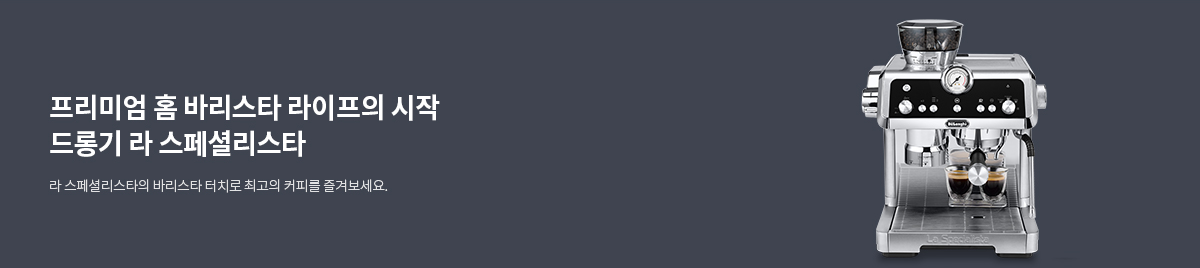
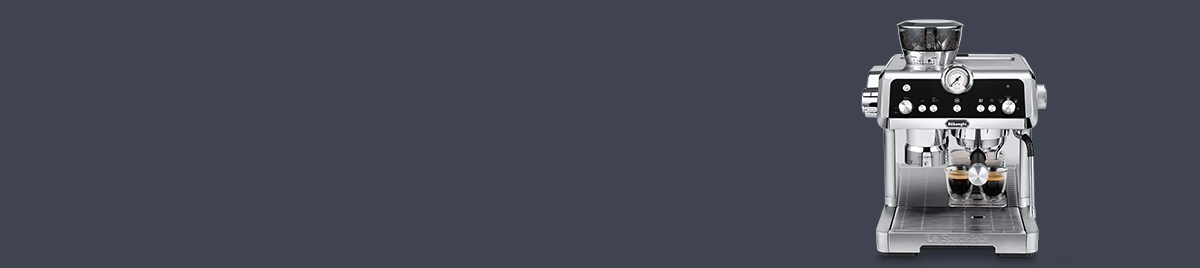
임시 완성

Changed region(s): [[0.0308, 0.3582, 0.37, 0.4478], [0.0308, 0.4776, 0.2775, 0.597], [0.0308, 0.6567, 0.3392, 0.7164]]

diff --git a/sub-page.html b/sub-page.html
@@ -12,7 +12,7 @@
         <link rel="stylesheet" href="./css/Footer.css" />
         <link rel="stylesheet" href="./css/sub.css" />
         <script src="./js/jquery-3.7.1.min.js"></script>
-        <script src="./js/main.js" defer></script>
+        <script src="./js/script.js" defer></script>
         <title>De-Longhi</title>
     </head>
     <body>
@@ -186,6 +186,11 @@
                 class="banner"
             >
                 <img src="./img/banner.png" alt="banner" />
+                <h5>
+                    프리미엄 홈 바리스타 라이프의 시작 <br />드롱기 라 스페셜리스타<span
+                        >라 스페셜리스트의 바리스타 터치로 최고의 커피를 즐겨보세요</span
+                    >
+                </h5>
             </a>
             <div class="inner">
                 <section id="info">
@@ -193,7 +198,7 @@
                     <ul class="item-tab" id="info-tab">
                         <li><a href="#info-tab">상세설명</a></li>
                         <li><a href="#review-tab">상품후기 (1)</a></li>
-                        <li><a href="#buy-tab">구매안내</a></li>
+                        <li><a href="#buy-tab">상품정보</a></li>
                         <li><a href="#faq-tab">상품문의 (0)</a></li>
                     </ul>
                     <figure class="info-img"><img src="./img/temp_14350355152291.jpg" alt="info-img" /></figure>
@@ -202,7 +207,7 @@
                     <ul class="item-tab" id="review-tab">
                         <li><a href="#info-tab">상세설명</a></li>
                         <li><a href="#review-tab">상품후기 (1)</a></li>
-                        <li><a href="#buy-tab">구매안내</a></li>
+                        <li><a href="#buy-tab">상품정보</a></li>
                         <li><a href="#faq-tab">상품문의 (0)</a></li>
                     </ul>
                     <h3 class="review-title">상품리뷰</h3>
@@ -256,11 +261,120 @@
                             <div class="sort-filter">최신순</div>
                             <div class="sort-filter">별점순</div>
                         </div>
-                        <div class="review-filter-search">
+                        <a href="#" class="review-filter-search">
                             <img src="./img/ico-search.png" alt="ico-search" />
+                        </a>
+                    </div>
+                    <div class="review-page-wrap">
+                        <div class="review-page">
+                            <div class="star-img">
+                                <figure><img src="./img/sub-star.png" alt="sub-star" /></figure>
+                                <figure><img src="./img/sub-star.png" alt="sub-star" /></figure>
+                                <figure><img src="./img/sub-star.png" alt="sub-star" /></figure>
+                                <figure><img src="./img/sub-star.png" alt="sub-star" /></figure>
+                                <figure><img src="./img/sub-star.png" alt="sub-star" /></figure>
+                            </div>
+                            <div class="user-name">정**님의 리뷰</div>
+                            <p class="review-content">
+                                사용하기 너무 편합니다. 라떼는 부드럽고 에스프레소는 향기가 풍부하고 중후해서 너무
+                                즐거운 경험이였습니다.
+                            </p>
+                            <div class="interaction-wrap">
+                                <div class="interaction">
+                                    <div class="like-wrap">
+                                        <a href="#" class="like"><img src="./img/btn-like.png" alt="ico-like" /></a>
+                                        0
+                                    </div>
+                                    <div class="bad-wrap">
+                                        <a href="#" class="bad"><img src="./img/btn-bad.png" alt="ico-bad" /></a>
+                                    </div>
+                                    <a href="#" class="chat-wrap">
+                                        <span>댓글(1)</span>
+                                        <div class="chat"><img src="./img/chat-arrow.png" alt="ico-arrow" /></div>
+                                    </a>
+                                </div>
+                                <a href="#" class="block">신고 및 차단</a>
+                            </div>
+                        </div>
+                        <div class="review-page">
+                            <div class="star-img">
+                                <figure><img src="./img/sub-star.png" alt="sub-star" /></figure>
+                                <figure><img src="./img/sub-star.png" alt="sub-star" /></figure>
+                                <figure><img src="./img/sub-star.png" alt="sub-star" /></figure>
+                                <figure><img src="./img/sub-star.png" alt="sub-star" /></figure>
+                                <figure><img src="./img/sub-star.png" alt="sub-star" /></figure>
+                            </div>
+                            <div class="user-name">나**님의 리뷰</div>
+                            <p class="review-content">상품 품질이 좋습니다. 마음에 들어요!</p>
+                            <div class="interaction-wrap">
+                                <div class="interaction">
+                                    <div class="like-wrap">
+                                        <a href="#" class="like"><img src="./img/btn-like.png" alt="ico-like" /></a>
+                                        0
+                                    </div>
+                                    <div class="bad-wrap">
+                                        <a href="#" class="bad"><img src="./img/btn-bad.png" alt="ico-bad" /></a>
+                                    </div>
+                                    <a href="#" class="chat-wrap">
+                                        <span>댓글(1)</span>
+                                        <div class="chat"><img src="./img/chat-arrow.png" alt="ico-arrow" /></div>
+                                    </a>
+                                </div>
+                                <a href="#" class="block">신고 및 차단</a>
+                            </div>
+                        </div>
+                        <div class="review-page">
+                            <div class="star-img">
+                                <figure><img src="./img/sub-star.png" alt="sub-star" /></figure>
+                                <figure><img src="./img/sub-star.png" alt="sub-star" /></figure>
+                                <figure><img src="./img/sub-star.png" alt="sub-star" /></figure>
+                                <figure><img src="./img/sub-star.png" alt="sub-star" /></figure>
+                                <figure><img src="./img/sub-star.png" alt="sub-star" /></figure>
+                            </div>
+                            <div class="user-name">너**님의 리뷰</div>
+                            <p class="review-content">
+                                커피 잘 나오고 맛있어요~ 급히 필요한 거라 택배로 진행했는데 바로 보내주셨어요.
+                                택배기사님이 무겁다고 뭐라 하시고 지연시키셔서… 주말 지나고 왔지만 판매자분은 발송 바로
+                                해주셔서 감사했습니다!
+                            </p>
+                            <div class="interaction-wrap">
+                                <div class="interaction">
+                                    <div class="like-wrap">
+                                        <a href="#" class="like"><img src="./img/btn-like.png" alt="ico-like" /></a>
+                                        0
+                                    </div>
+                                    <div class="bad-wrap">
+                                        <a href="#" class="bad"><img src="./img/btn-bad.png" alt="ico-bad" /></a>
+                                    </div>
+                                    <a href="#" class="chat-wrap">
+                                        <span>댓글(1)</span>
+                                        <div class="chat"><img src="./img/chat-arrow.png" alt="ico-arrow" /></div>
+                                    </a>
+                                </div>
+                                <a href="#" class="block">신고 및 차단</a>
+                            </div>
                         </div>
                     </div>
-                    <div class="review-page"></div>
+                </section>
+                <section id="buy">
+                    <ul class="item-tab" id="buy-tab">
+                        <li><a href="#info-tab">상세설명</a></li>
+                        <li><a href="#review-tab">상품후기 (1)</a></li>
+                        <li><a href="#buy-tab">상품정보</a></li>
+                        <li><a href="#faq-tab">상품문의 (0)</a></li>
+                    </ul>
+                    <h3 class="buy-title">상품정보</h3>
+                    <figure><img src="./img/sub-info.jpg" alt="sub-info" /></figure>
+                </section>
+                <section id="faq">
+                    <ul class="item-tab" id="faq-tab">
+                        <li><a href="#info-tab">상세설명</a></li>
+                        <li><a href="#review-tab">상품후기 (1)</a></li>
+                        <li><a href="#buy-tab">상품정보</a></li>
+                        <li><a href="#faq-tab">상품문의 (0)</a></li>
+                    </ul>
+                    <h3 class="faq-title">상품문의</h3>
+                    <div class="faq-page">게시물이 없습니다.</div>
                 </section>
             </div>
         </main>

diff --git a/css/sub.css b/css/sub.css
@@ -260,6 +260,22 @@
     width: 100%;
     height: 25rem;
     margin-top: 20rem;
+    position: relative;
+}
+.banner h5 {
+    position: absolute;
+    top: 50%;
+    transform: translateY(-50%);
+    left: 45rem;
+    font-size: 4.2rem;
+    font-weight: 700;
+    color: #fff;
+}
+.banner span {
+    display: block;
+    font-weight: 500;
+    font-size: 2rem;
+    margin-top: 2.5rem;
 }
 /* 배너 디자인 끝 */
 /* 공통 item-tab 시작 */
@@ -274,18 +290,17 @@
 .item-tab li a {
     display: flex;
     width: 100%;
-    height: 2.4rem;
     justify-content: center;
     align-items: center;
     font-size: 2rem;
     font-weight: 600;
     color: #000;
     cursor: pointer;
-    padding-bottom: 1rem;
+    padding: 1.5rem 0;
     border-bottom: 1px solid rgba(0, 0, 0, 0.5);
 }
 /* 공통 item-tab 끝 */
-/* info-tab 시작 */
+/* info-tab */
 #info-tab {
     margin-top: 16rem;
 }
@@ -294,7 +309,23 @@
     color: var(--main--color);
     border-bottom: 3px solid var(--main--color);
 }
-/* info-tab 끝 */
+/* but-tab */
+#buy-tab {
+    margin-top: 18rem;
+}
+#buy-tab li:nth-child(3) a {
+    font-weight: 800;
+    color: var(--main--color);
+    border-bottom: 3px solid var(--main--color);
+}
+#faq-tab {
+    margin-top: 18rem;
+}
+#faq-tab li:nth-child(4) a {
+    font-weight: 800;
+    color: var(--main--color);
+    border-bottom: 3px solid var(--main--color);
+}
 /* info-img 시작 */
 .info-img {
     margin-top: 6rem;
@@ -454,3 +485,99 @@
     cursor: pointer;
 }
 /* review-filter 끝 */
+/* review-page 시작 */
+.review-page {
+    margin: 4rem 0;
+    padding: 0 1rem;
+}
+.review-page .star-img {
+    display: flex;
+}
+.review-page .star-img figure {
+    width: 24px;
+    height: 24px;
+}
+.review-page .user-name {
+    font-weight: 700;
+    color: #000;
+    margin-top: 2rem;
+}
+.review-page .review-content {
+    margin-top: 1.5rem;
+}
+.review-page .interaction-wrap {
+    display: flex;
+    justify-content: space-between;
+    margin-top: 2.5rem;
+}
+.review-page .interaction {
+    display: flex;
+    align-items: center;
+    gap: 2.5rem;
+}
+.review-page .interaction .like-wrap {
+    display: flex;
+    gap: 1rem;
+}
+.review-page .interaction .like {
+    display: block;
+    width: 2rem;
+    height: 2rem;
+}
+.review-page .interaction .bad {
+    display: block;
+    width: 2rem;
+    height: 2rem;
+}
+.review-page .interaction .chat-wrap {
+    display: flex;
+    align-items: center;
+    gap: 1rem;
+    font-weight: 600;
+    color: #000;
+}
+.review-page .interaction .chat {
+    display: block;
+    width: 24px;
+    height: 12px;
+}
+.interaction-wrap .block {
+    color: #000;
+    font-weight: 700;
+}
+/* but section 시작 */
+#buy .buy-title {
+    font-size: 3.2rem;
+    color: var(--main--color);
+    margin-top: 6rem;
+    font-weight: 700;
+    padding: 0rem 1rem;
+}
+#buy figure {
+    margin-top: 3rem;
+}
+/* but section 끝 */
+/* faq section 시작 */
+#faq .faq-title {
+    font-size: 3.2rem;
+    color: var(--main--color);
+    margin-top: 6rem;
+    font-weight: 700;
+    padding: 0rem 1rem;
+}
+#faq .faq-page {
+    margin-top: 2rem;
+    display: flex;
+    justify-content: center;
+    align-items: center;
+    width: 100%;
+    height: 30rem;
+
+    font-size: 2rem;
+    font-weight: 600;
+    color: #000;
+
+    border-top: 1px solid var(--black40);
+    border-bottom: 1px solid var(--black40);
+}
+/* faq section 끝 */

diff --git a/js/script.js b/js/script.js
@@ -111,7 +111,6 @@ $(".English").on("click", () => {
 $(".English").on("click", () => {
     enChange("ko");
 });
-console.log($("#search-input").attr("placeholder", "bol4.bstage.in 입력하세요"));
 // 서브 구매 페이지
 var productMenuSlider = new Swiper(".product-menu-slider", {
     spaceBetween: 10,
@@ -128,4 +127,10 @@ var productSlider = new Swiper(".product-slider", {
     thumbs: {
         swiper: productMenuSlider,
     },
+});
+const filterTab = $(".review-filter-select .sort-filter");
+const sortFilter = $(".sort-filter");
+filterTab.on("click", function () {
+    filterTab.removeClass("on");
+    $(this).addClass("on");
 });

diff --git a/index.html b/index.html
@@ -12,7 +12,7 @@
         <link rel="stylesheet" href="./css/Footer.css" />
         <link rel="stylesheet" href="./css/main.css" />
         <script src="./js/jquery-3.7.1.min.js"></script>
-        <script src="./js/main.js" defer></script>
+        <script src="./js/script.js" defer></script>
         <title>De-Longhi</title>
     </head>
     <body>
